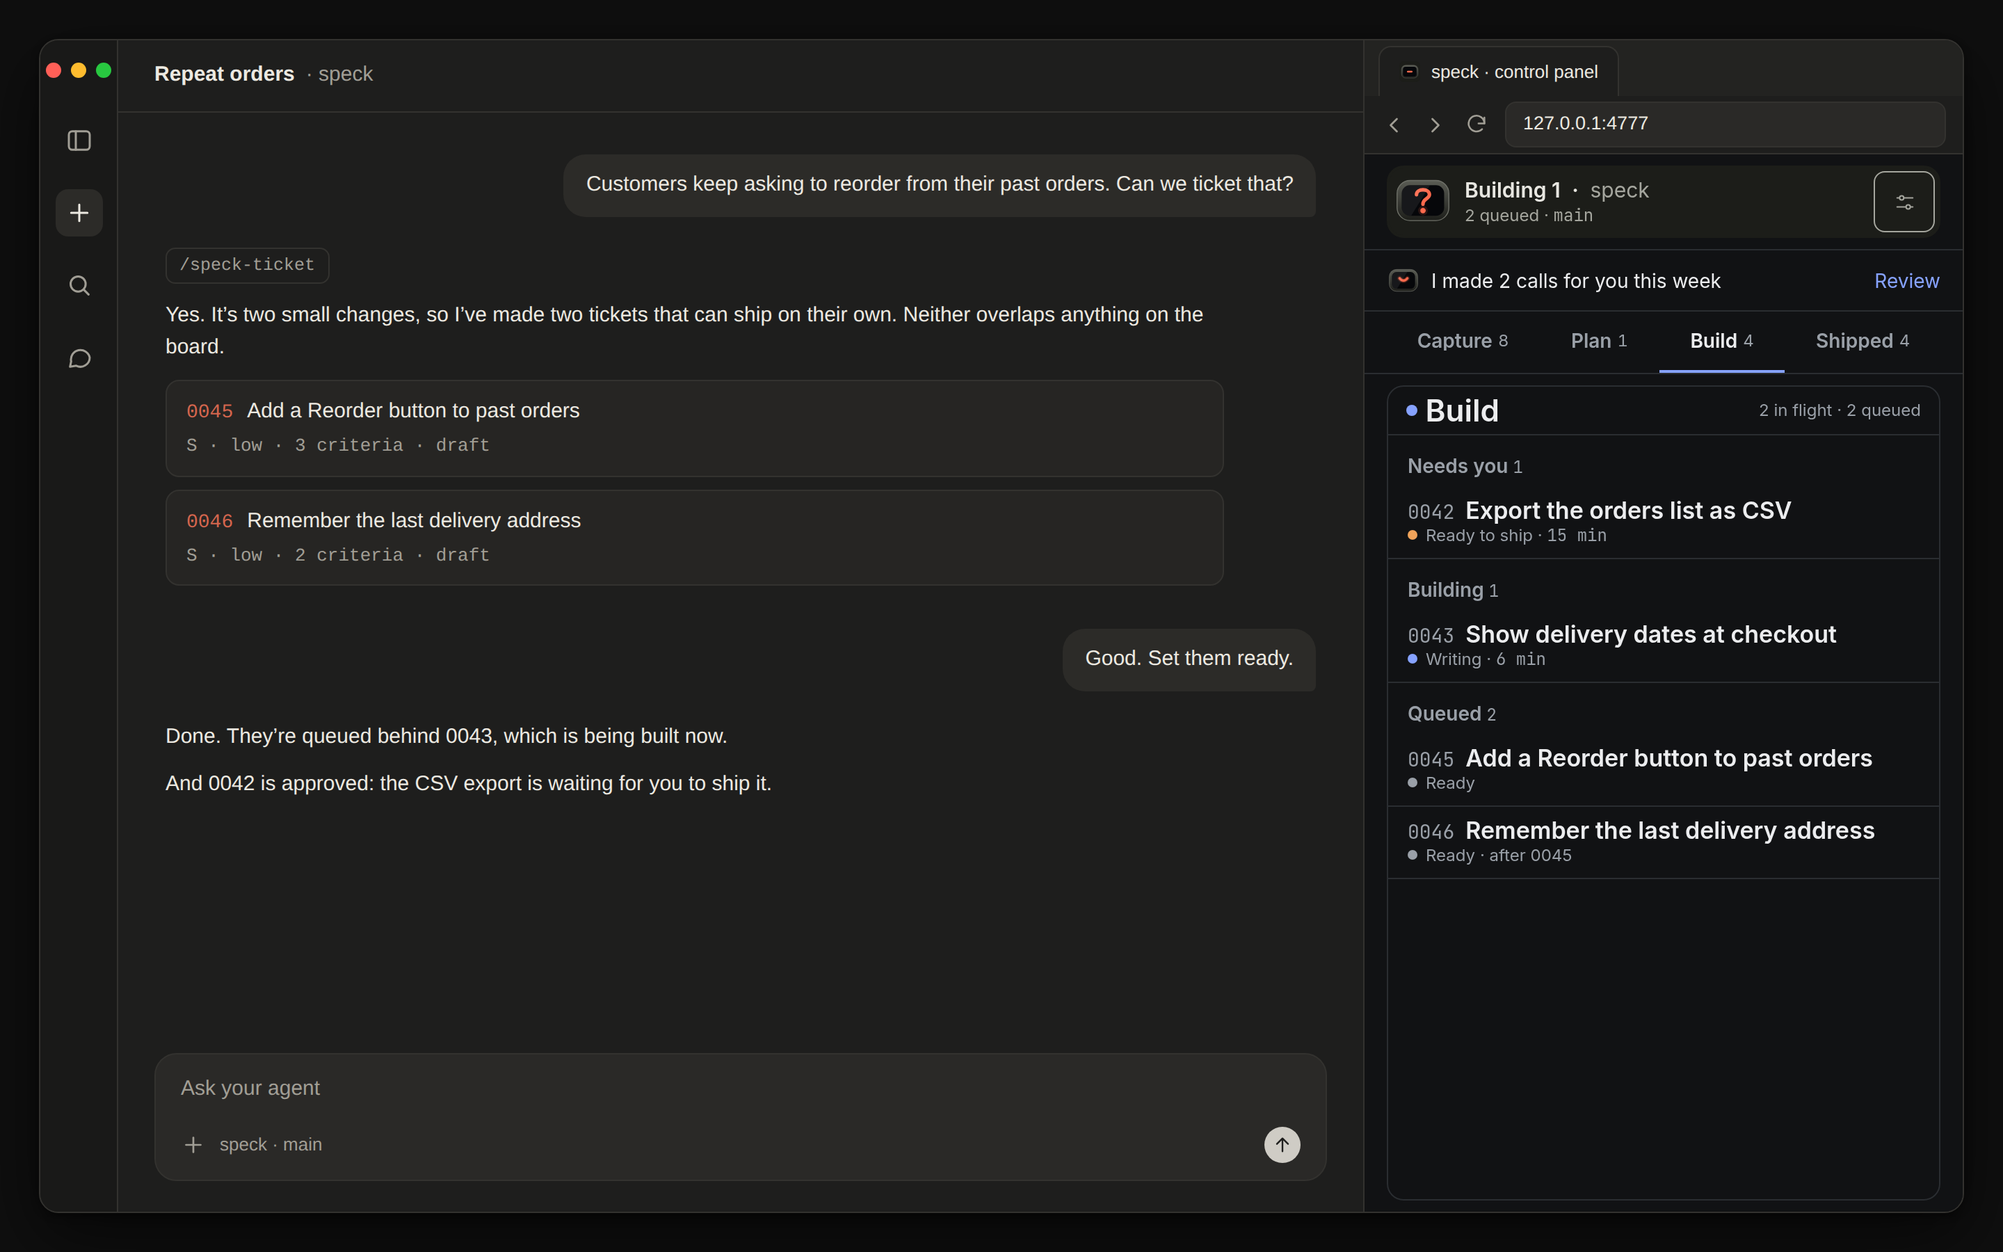
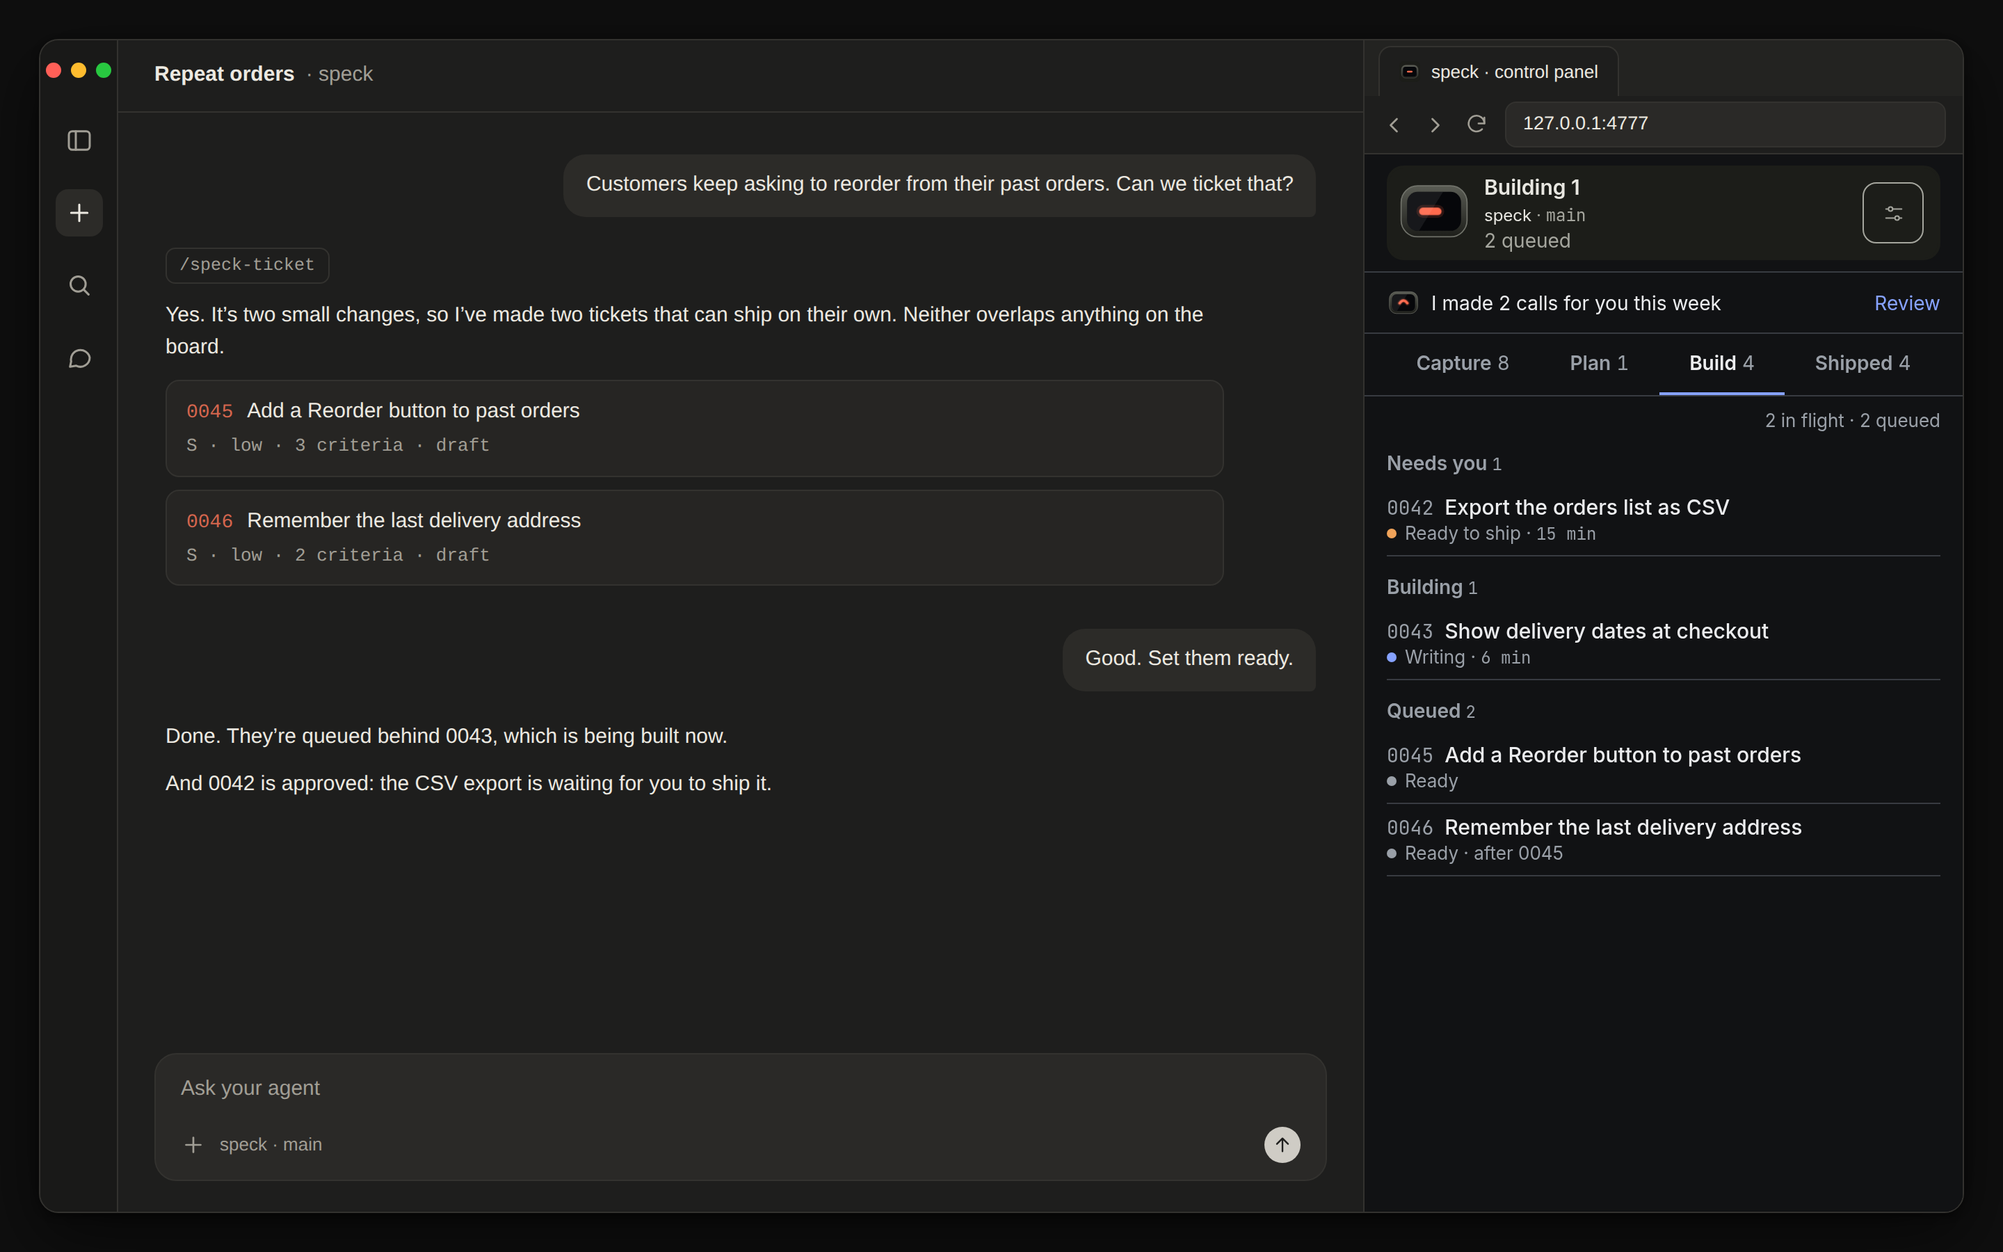
speck(0598): Prepare release 1.0.0

Changed region(s): [[0.6875, 0.1244, 0.9688, 0.7156], [0.9375, 0.1556, 0.9688, 0.1867]]

diff --git a/CHANGELOG.md b/CHANGELOG.md
@@ -1,5 +1,67 @@
 # Changelog
 
+## 1.0.0 · 10 November 2026
+
+What's new since 0.22.0. A major release in which speck becomes your engineering manager: you decide what gets built, and speck gets it shipped, makes the obvious calls, gets stuck work moving and tells you what it did. You can give it a name of your own, and the panel is redesigned around it, with a black bar where the LCD screen was, speck's new face, tabs and short rows for the lanes, a full view for each ticket, and the bridge across every project on your machine. Costs speck works out itself are still estimates at API list prices.
+
+### Getting started
+
+- Install this release with `npx github:luroai/speck#v1.0.0 init`.
+- The README tells speck's 1.0 story: speck as your engineering manager, how to have it take the obvious calls (choose `decide` for `watch` in Settings) and how to name it. Its demo pictures, and the brief's description of the panel, show the redesigned panel.
+
+### Your engineering manager
+
+- `speck_name` is a new project setting, `speck` by default, which names your engineering manager. Set it with `speck config set speck_name "<name>"` or in Settings, where the group that was Watching is now headed Your engineering manager, with the name as its first setting. A name is 1 to 24 letters, digits, spaces, hyphens and apostrophes, starting with a letter. The brief has a section on what the engineering manager does, and the `watch` settings are its settings.
+- speck uses that name wherever the engineering manager speaks or acts: the explanations of the `watch` settings, a blocked ticket that it will answer ("<name> will answer"), its questions to you, Decided for you, `speck status` and `speck run`'s log. Where speck means the tool itself, such as its commands, the panel's title and the Notes lines it writes into tickets, it still says speck.
+- `speck run`'s log reports what the engineering manager did in the first person, such as "I'll look into it" and "I went with the recommendation". Lines about the tool's own work, such as a build starting or a ticket shipping, read as before. In a terminal the manager's lines start with a small » mark.
+- When speck makes a call for you, it keeps the question, the option it went with and the options it turned down. A build's blocked question has a new `Other options:` line beside `Recommended:`, and `speck status --json`'s list of calls gives each one's question and other options. Calls made before this have them blank.
+
+### The black bar and speck's face
+
+- The LCD screen at the top of the panel is gone, with its clock, speck's old animations and the dot-matrix font. In its place is a black bar, the same in both looks, with speck's face and three lines: what speck is doing, such as "Shipping 0599", the project's name with its base branch, and what's queued and how many things need you, in orange. Pressing the status opens the Pipeline log. On a phone the status is never cut short, and a project name of up to 20 characters shows in full.
+- speck has a new character: a small dark device whose red visor is its eye. Its mood follows the pipeline: asleep when Auto-build is off, asking when something needs you, focused while work is building, in review or shipping, and watching otherwise. It looks pleased, its visor arched upwards, for 10 seconds after a ticket ships or it takes a recommendation, and sheepish beside a ticket whose criteria changed. Only the red light moves, and it stays still if you've asked your computer for less motion.
+- speck's app icon, in a browser tab and on a phone's home screen, is the new character on a black rounded square. If you added the panel to a phone's home screen before, add it again to pick up the new icon.
+
+### The lanes
+
+- The lanes are four tabs, Capture, Plan, Build and Shipped, each with how many it holds. Press one, swipe or use the arrow keys. Build's tab no longer shows a separate number for what needs you, as the black bar says that.
+- Each lane lists its items as short rows rather than cards, every closed row the same height: one line of title and one of details, cut short with "…" when too long, and shown whole when you hover over it. Opening a row in Capture or Plan shows the whole title and the item inside a shaded fill.
+- Build groups its rows under Needs you, Building and Queued, each with its count and an orange, blue or grey dot. A build that stopped partway, which speck won't resume or look into, is listed under Needs you as "Build stopped", and the bar's count of what needs you includes it.
+- In Plan, a draft's Set ready button is on its row, greyed out with the reason when the draft fails the ready check. A ticket waiting on two or more others lists each one under "Waits on" with whether it has shipped, is building or is queued.
+- Shipped opens with a grid of figures: shipped today, the median build time, the median review rounds and the share approved in the first round, with All figures for the other four: the median builder cost, the total cost and the median reviewer and builder tokens. Each shipped ticket is a row with when it shipped, its review rounds and how long it took.
+- An empty lane shows speck asleep with a line saying what lands there.
+
+### A ticket's full view
+
+- A ticket's full view has a new layout: a back link to the lane you came from, a coloured status pill, four bars for how far it has got, its facts, what it should achieve, its acceptance criteria with a tick on each one the reviewer passed, and rows that open its review pack and build log. A shipped ticket's view also shows what it cost and how many tokens it used.
+- While a ticket builds, its full view shows what the build is doing, which step it's at, its live log, and the Full log and Stop build buttons. A blocked ticket shows its question with Go with the recommendation, or the engineering manager's question with Answer and Dismiss.
+- An approved ticket's view ends in a bar with Ask for changes and Ship, and a draft's ends in a bar with Set ready, greyed out with the reason when it fails the ready check.
+- A ticket whose acceptance criteria changed during its build says so on its Build row ("waiting at Ship: a criterion changed"), and its full view has a callout, with speck looking sheepish, giving each changed criterion's old and new wording.
+- A ticket's build log opens as a page like the Pipeline log, one row per line, rather than a dark pop-up. The review pack opens with a back link to its ticket and marks the verdict and each criterion with a blue tick or an orange cross instead of emoji. A ticket's chain is two plain lines: what it waits on and what waits on it.
+
+### Decided for you and the Pipeline log
+
+- When speck has made calls for you in the last week, a line under the bar shows its pleased face, says how many and offers Review. Decided for you reads as speck's own report, with each call under Today or Earlier: the question, what it went with, what it didn't choose and when. Its back link names the lane it returns to. Change works as before.
+- The Pipeline log is a full view: a line with speck saying whether `speck run` is on, since when and how many build slots are in use, filters for Everything, Decisions, Ships and Builds, and one row per line with its time and its log file or agent. The engineering manager's lines carry speck's face, and every line shows whole, wrapping instead of ending in "…", including a refused ship's reason.
+
+### The bridge
+
+- With panels running for two or more projects, the project menu on the black bar lists All projects first. It opens the bridge: speck in the busiest mood among your projects, how many are building, how many projects are busy and how many things need you, with shipped this week, the median build time and this week's spend across them all. Each thing that needs you is a card that takes you to that ticket in its own project, and each project is a row you can press to switch to it. A project whose panel doesn't answer within 2 seconds is marked Not answering and left out of the figures.
+
+### The new look
+
+- The panel has new colours and type in both looks: white or near-black pages, soft grey surfaces, one blue accent and orange for anything that needs you. Text is in Inter, with ticket numbers, timers and figures in JetBrains Mono. The fonts come with the panel, so it looks the same with no network.
+- Settings is plain sections with a heading and a line under each, and its Save turns blue once you've changed something. Every button has the same rounded corners, none is left with the old small text, and the thin lines between rows and round boxes are a little darker.
+
+### speck run
+
+- A resume the watch agent asked for while every build slot was busy is dropped if the ticket has moved on before a slot frees up, meaning its status changed, its branch got a new commit, or its build's session changed or is in use. `speck run` says so once in its log.
+- A panel that a build `speck run` started opens, for example to take pictures, stays out of your project menu, and `speck run` stops it when that build ends, or the next time `speck run` starts if it was off. Your own panels are never touched. The build skill now says to stop a panel by its port and never to stop programs by name.
+
+### Prices
+
+- The shipped price table has been refreshed with this release's rates, taken on 10 November 2026.
+
 ## 0.22.0 · 9 November 2026
 
 What's new since 0.21.1. A minor release in which speck can decide for you and tell you what it chose: `watch: decide` takes the recommendation on a blocked question and carries on, the panel lists what it decided, and a ticket whose acceptance criteria changed waits for you at Ship. The `watch` setting still starts at `tell`, so none of this happens until you choose it. Costs speck works out itself are still estimates at API list prices.

diff --git a/docs/releases/v1.0.0.md b/docs/releases/v1.0.0.md
@@ -1,0 +1,41 @@
+1.0.0 is the release where speck becomes your engineering manager. You decide what gets built and what done looks like. speck gets it shipped: it runs the builder and reviewer you chose, makes the obvious calls, looks into work that gets stuck and tells you what it did, asking you only when there's no clear answer. You can give it a name of your own, and the panel is redesigned around it, from a black bar with speck's new face to a view of every project on your machine at once.
+
+## What's new
+
+- **Your engineering manager, by name.** A new `speck_name` setting names it, in Settings under Your engineering manager or with `speck config set speck_name "<name>"`. It goes by that name wherever it speaks or acts: on a blocked ticket, in its questions, in Decided for you, in `speck status` and in `speck run`'s log, where it speaks in the first person. So it's clear which choices were the manager's and which were yours.
+- **The black bar and speck's face.** The LCD screen is gone. A black bar shows speck, what it's doing, the project and its branch, and what's queued and needs you, without cutting the status short on a phone. speck's face, a small device with a red visor, shows its mood at a glance: asleep, watching, focused, asking when something needs you, pleased when a ticket ships, sheepish beside changed criteria. The app icon is the same character.
+- **Lanes you can read on a phone.** Capture, Plan, Build and Shipped are tabs with their counts, and each lane is a list of short rows, so far more fit on a small screen. Build groups them under Needs you, Building and Queued, and a build that stopped and won't be picked up now counts as needing you. You can set a draft ready from its row, and Shipped opens with its figures.
+- **A full view for every ticket.** Each ticket opens to one page: how far it has got, its facts, its criteria with the reviewer's ticks, its live build and log, its question if it's blocked, and a bar at the bottom with Ship, or Set ready for a draft. A ticket whose criteria changed says which ones and how, without you opening its review pack.
+- **Decided for you, as speck's report.** The calls speck made for you this week, each with the question, what it went with and what it turned down, so you can change any you'd have called differently before it ships.
+- **The Pipeline log as a page.** Filters for decisions, ships and builds, the manager's own lines marked with its face, and every line shown whole.
+- **The bridge.** With panels running for two or more projects, All projects in the project menu shows everything that needs you across them, with this week's shipped tickets, build time and spend, and takes you to any ticket in its own project.
+
+## What's changed
+
+- **A new look.** New colours and type in both looks, with fonts that come with the panel, so it looks the same with no network. Settings, buttons, build logs and review packs match it.
+- **Steadier `speck run`.** A resume the watch agent asked for is dropped if the ticket moved on while it waited for a slot, instead of restarting the build on a stale instruction. A panel a build starts, for example to take pictures, stays out of your project menu and is stopped when the build ends, and your own panels are never touched.
+- **The README tells the 1.0 story,** with new demo pictures of the redesigned panel.
+
+The shipped price table has this release's rates. Costs speck works out from tokens are still estimates at API list prices, so they can differ a little from what you were billed.
+
+## Update
+
+Paste the setup prompt from the README into your coding agent, or run this in each project's folder:
+
+```sh
+npx github:luroai/speck#v1.0.0 init
+```
+
+Then, to name your engineering manager, type a name under Your engineering manager in the panel's Settings view, or run `speck config set speck_name "<name>"`.
+
+## Upgrading from 0.22.0
+
+- Run `npx github:luroai/speck#v1.0.0 init` again in each project to update the speck command and skills. It keeps your config and tickets. The new skills are what let a build list the options it doesn't recommend, and tell builders to stop a panel by its port.
+- The LCD screen is gone, with its clock and speck's old animations. Everything it did is in the black bar: press its status for the Pipeline log, and switch projects from the project's name.
+- `speck_name` is a new setting, `speck` until you change it, so nothing reads differently until you name it. The Settings group that was Watching is now Your engineering manager, with the same `watch` settings.
+- Lines `speck run` writes about its engineering manager now say "I", and start with a small » mark in a terminal. Lines written before this stay as they were.
+- The bridge reads every project's panel, so update each project to 1.0.0: a project on an older speck shows there as not answering.
+- If you added the panel to a phone's home screen, add it again to pick up the new icon.
+- There are no settings to change in `speck/config.yml`.
+
+See everything that's changed in the [1.0.0 section of the changelog](https://github.com/luroai/speck/blob/v1.0.0/CHANGELOG.md#100--10-november-2026).

diff --git a/README.md b/README.md
@@ -17,7 +17,7 @@ You don't need to read the code to check the work. Every ticket comes with a one
 
 Use the agents you already have: Claude Code, Codex or Cursor, or a model provider you have an API key for, such as DeepSeek. speck doesn't let a model review its own work unless you allow it.
 
-> Status: 0.22.0, a public preview. It works end to end on a local machine. Expect rough edges.
+> Status: 1.0.0. It works end to end on your own machine.
 
 ## Get started
 
@@ -163,9 +163,9 @@ Claude Code, Cursor and model providers such as DeepSeek need no setup: set `rev
 
 speck is built with speck. Since 8 October 2026, its features have gone through its own tickets, builds and independent reviews:
 
-- **557 tickets shipped** and 16 cancelled, each with its review rounds and delivery log in [`speck/tickets/done/`](speck/tickets/done/).
-- **13 minutes** median from a build starting to its ticket shipping, leaving out time it waited for you or the machine was asleep.
-- **1 review round** median. 284 tickets were approved in the first round.
+- **604 tickets shipped** and 16 cancelled, each with its review rounds and delivery log in [`speck/tickets/done/`](speck/tickets/done/).
+- **14 minutes** median from a build starting to its ticket shipping, leaving out time it waited for you or the machine was asleep.
+- **2 review rounds** median. 296 tickets were approved in the first round.
 
 That's why the commit history is long: each ticket leaves a trail of small, automatic commits as it moves from ready to shipped. The count isn't the point. Behind every ticket is a decision about what to build, and another about whether it was good enough to ship. In practice the agents keep up with you, not the other way round: by the time you've written the next ticket, the last one has often shipped.
 

diff --git a/speck/tickets/0598-prepare-release-1-0-0.md b/speck/tickets/0598-prepare-release-1-0-0.md
@@ -45,6 +45,12 @@ speck is ready to be released as 1.0.0.
 - Checked 2026-11-09: `package.json` is `0.22.0`; the README's status line reads "Status: 0.22.0, a public preview."
 - `npm run prices` fetches LiteLLM's price list from GitHub, so this build needs the network.
 - Failing before this build: none
+- Covers every ticket shipped since `v0.22.0`: 0575 to 0597 and 0599 to 0621, and no others.
+- Built from main at `speck(0617): End a draft's full view in Set ready`: 604 shipped, 16 cancelled, 14 minutes median, 2 rounds median, 296 approved in the first round, worked out with `test/support/figures.mjs` as 0307 did.
+- `npm run prices` on 2026-11-10 wrote the rates of 3564 models, and `scripts/prices.json`'s `taken` is 2026-11-10.
+- Demo pictures taken as 0597 took them, from a copy of the demo outside the repo in a temporary folder, its server changed to serve the woff2 fonts, fill in `{{panel}}` and give two made-up calls under Decided for you: a 430 px pane at 2×, 1440 × 900.
+- 0574's checks that named 0.22.0 as the current version now check the current version, as 0574 did for 0560, and `test/docs-0491.test.mjs` allows `test/release-0598.test.mjs` to name the version.
+- Self-check: the status-line test finds the line by its `Status: 1.0.0` text, so a reworded brief still passes 0267's check; the changelog's example of a named manager says `<name>` rather than a made-up person's name; the Shipped figures line names the four extra figures rather than "costs included", and the buttons line says what 0612 changed rather than that every button is the same size.
 
 ## In plain words
 <!-- Filled in by the builder before approval: the change for someone who doesn't read code. -->

diff --git a/docs/brief.md b/docs/brief.md
@@ -1,6 +1,6 @@
 # speck — product brief
 
-Status: 0.22.0, a public preview · 9 November 2026
+Status: 1.0.0 · 10 November 2026
 
 ## Thesis
 
